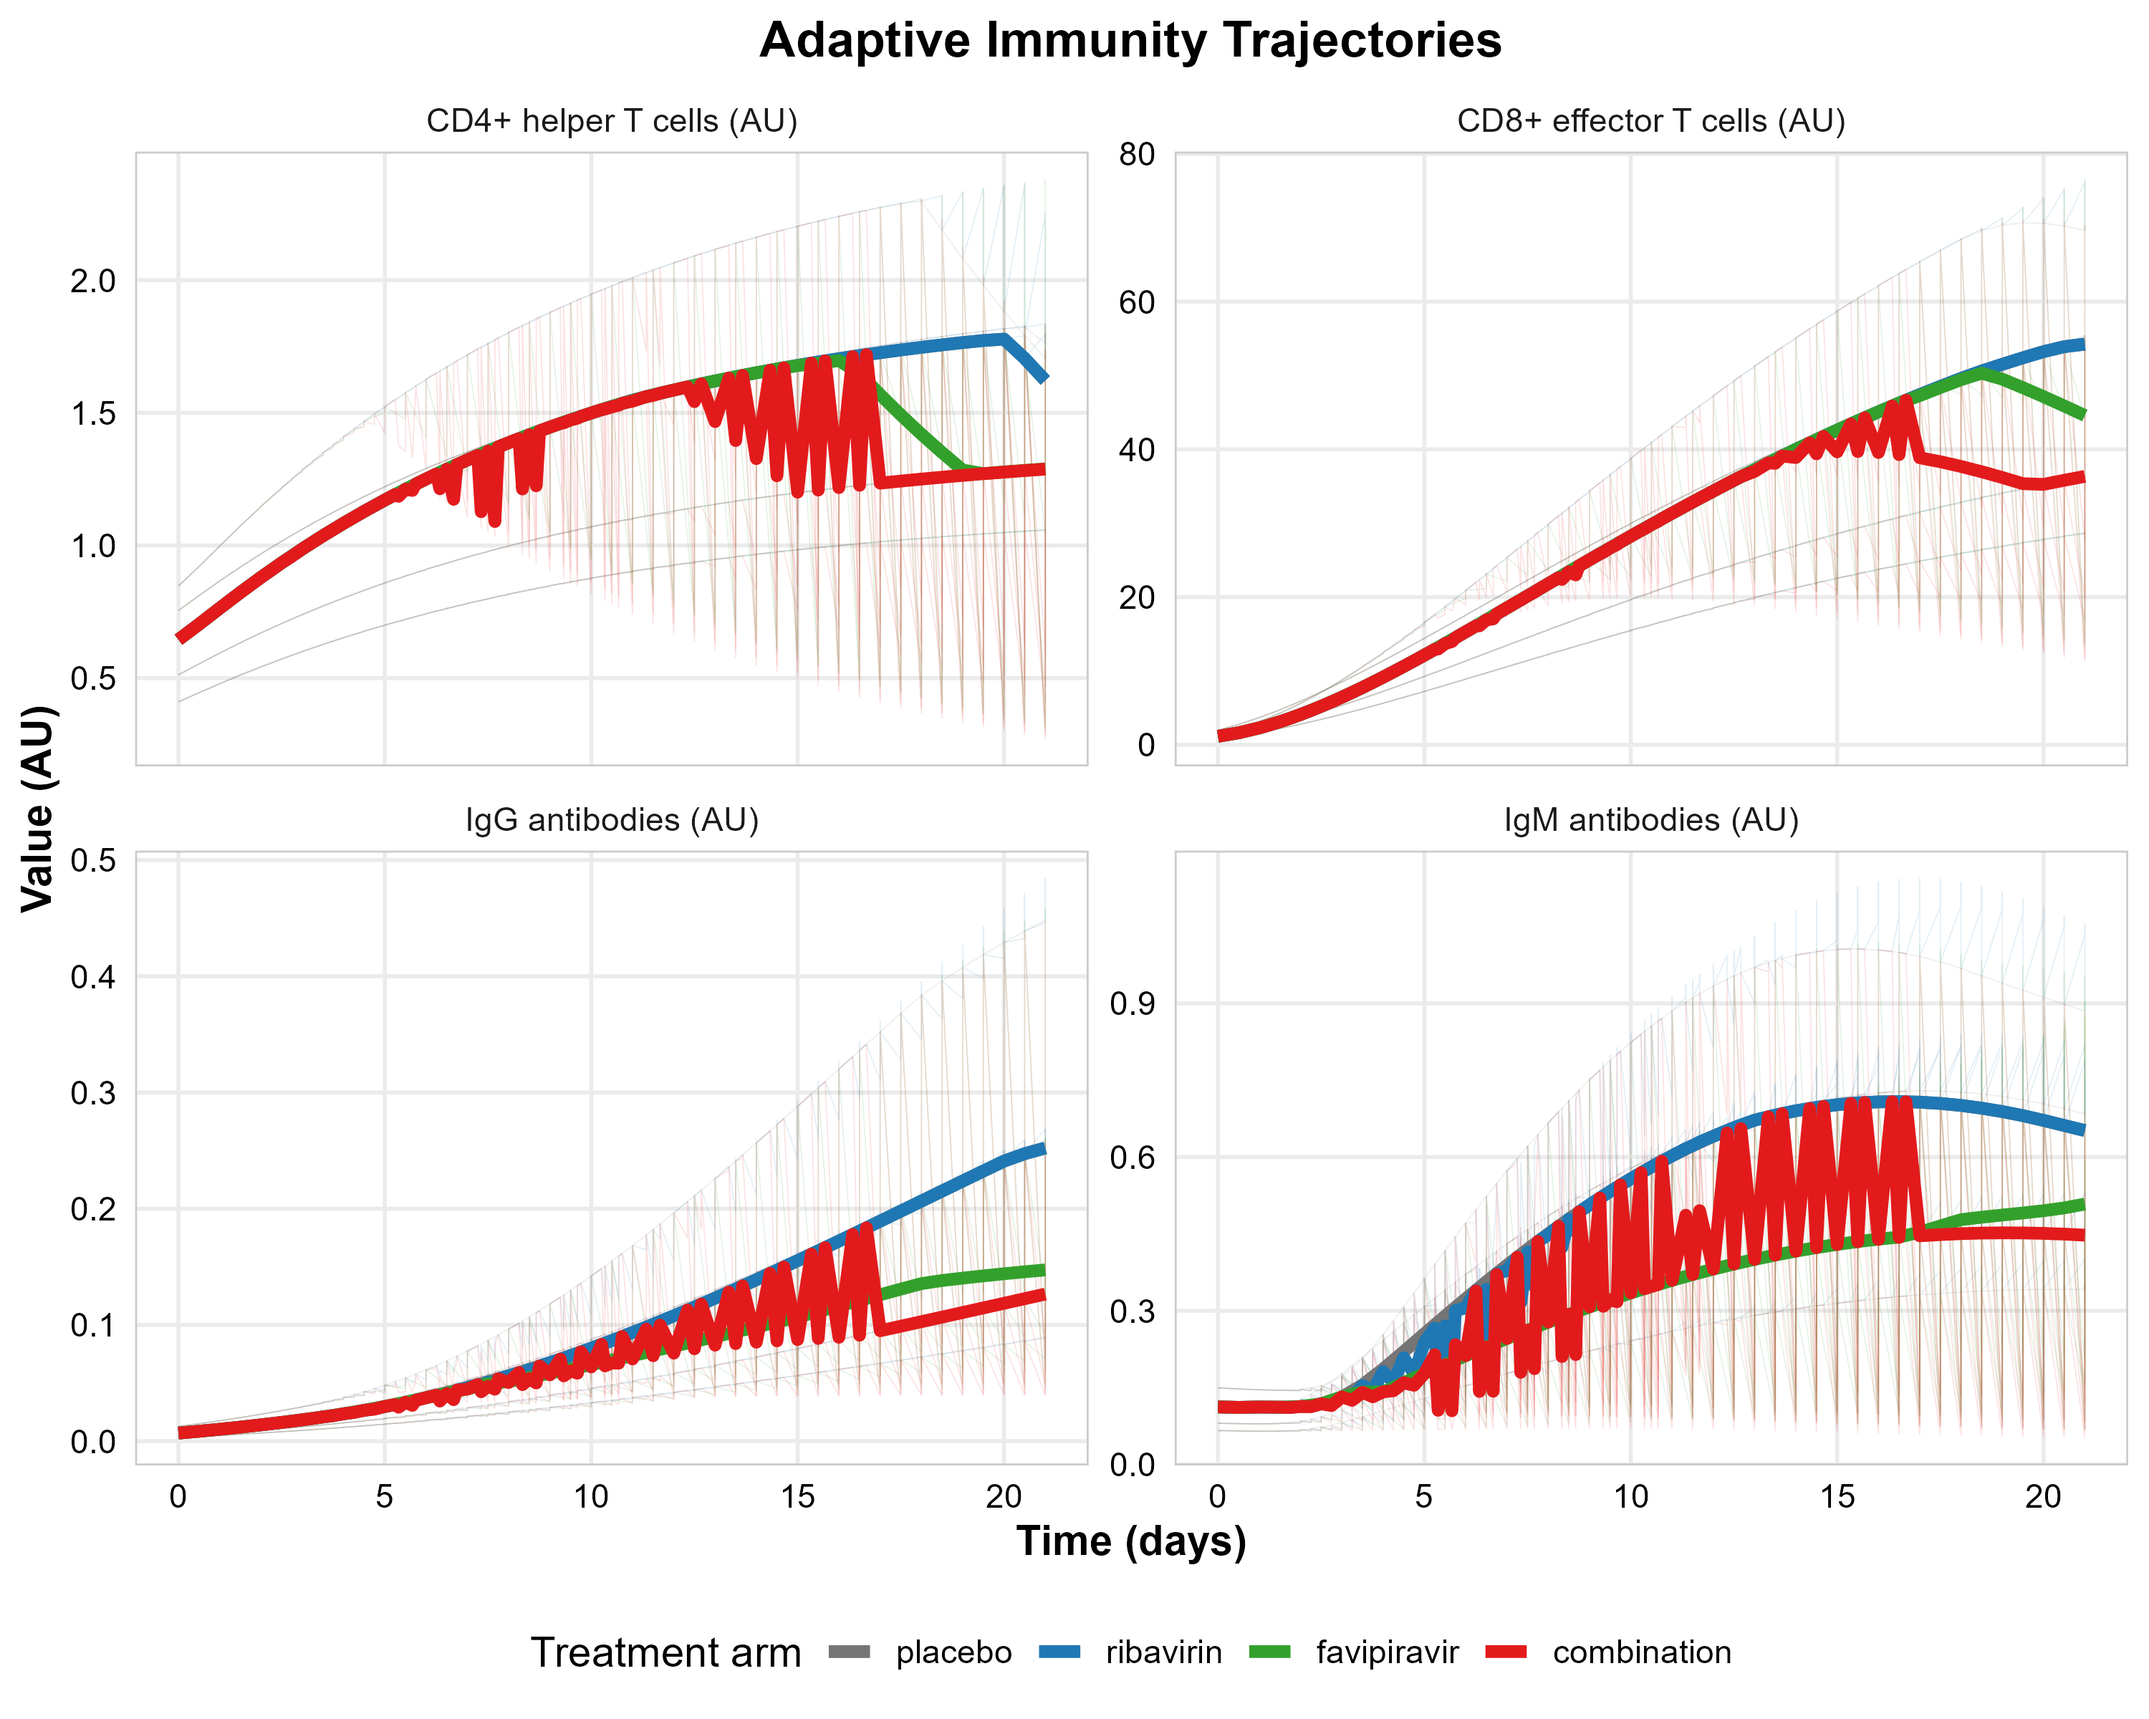
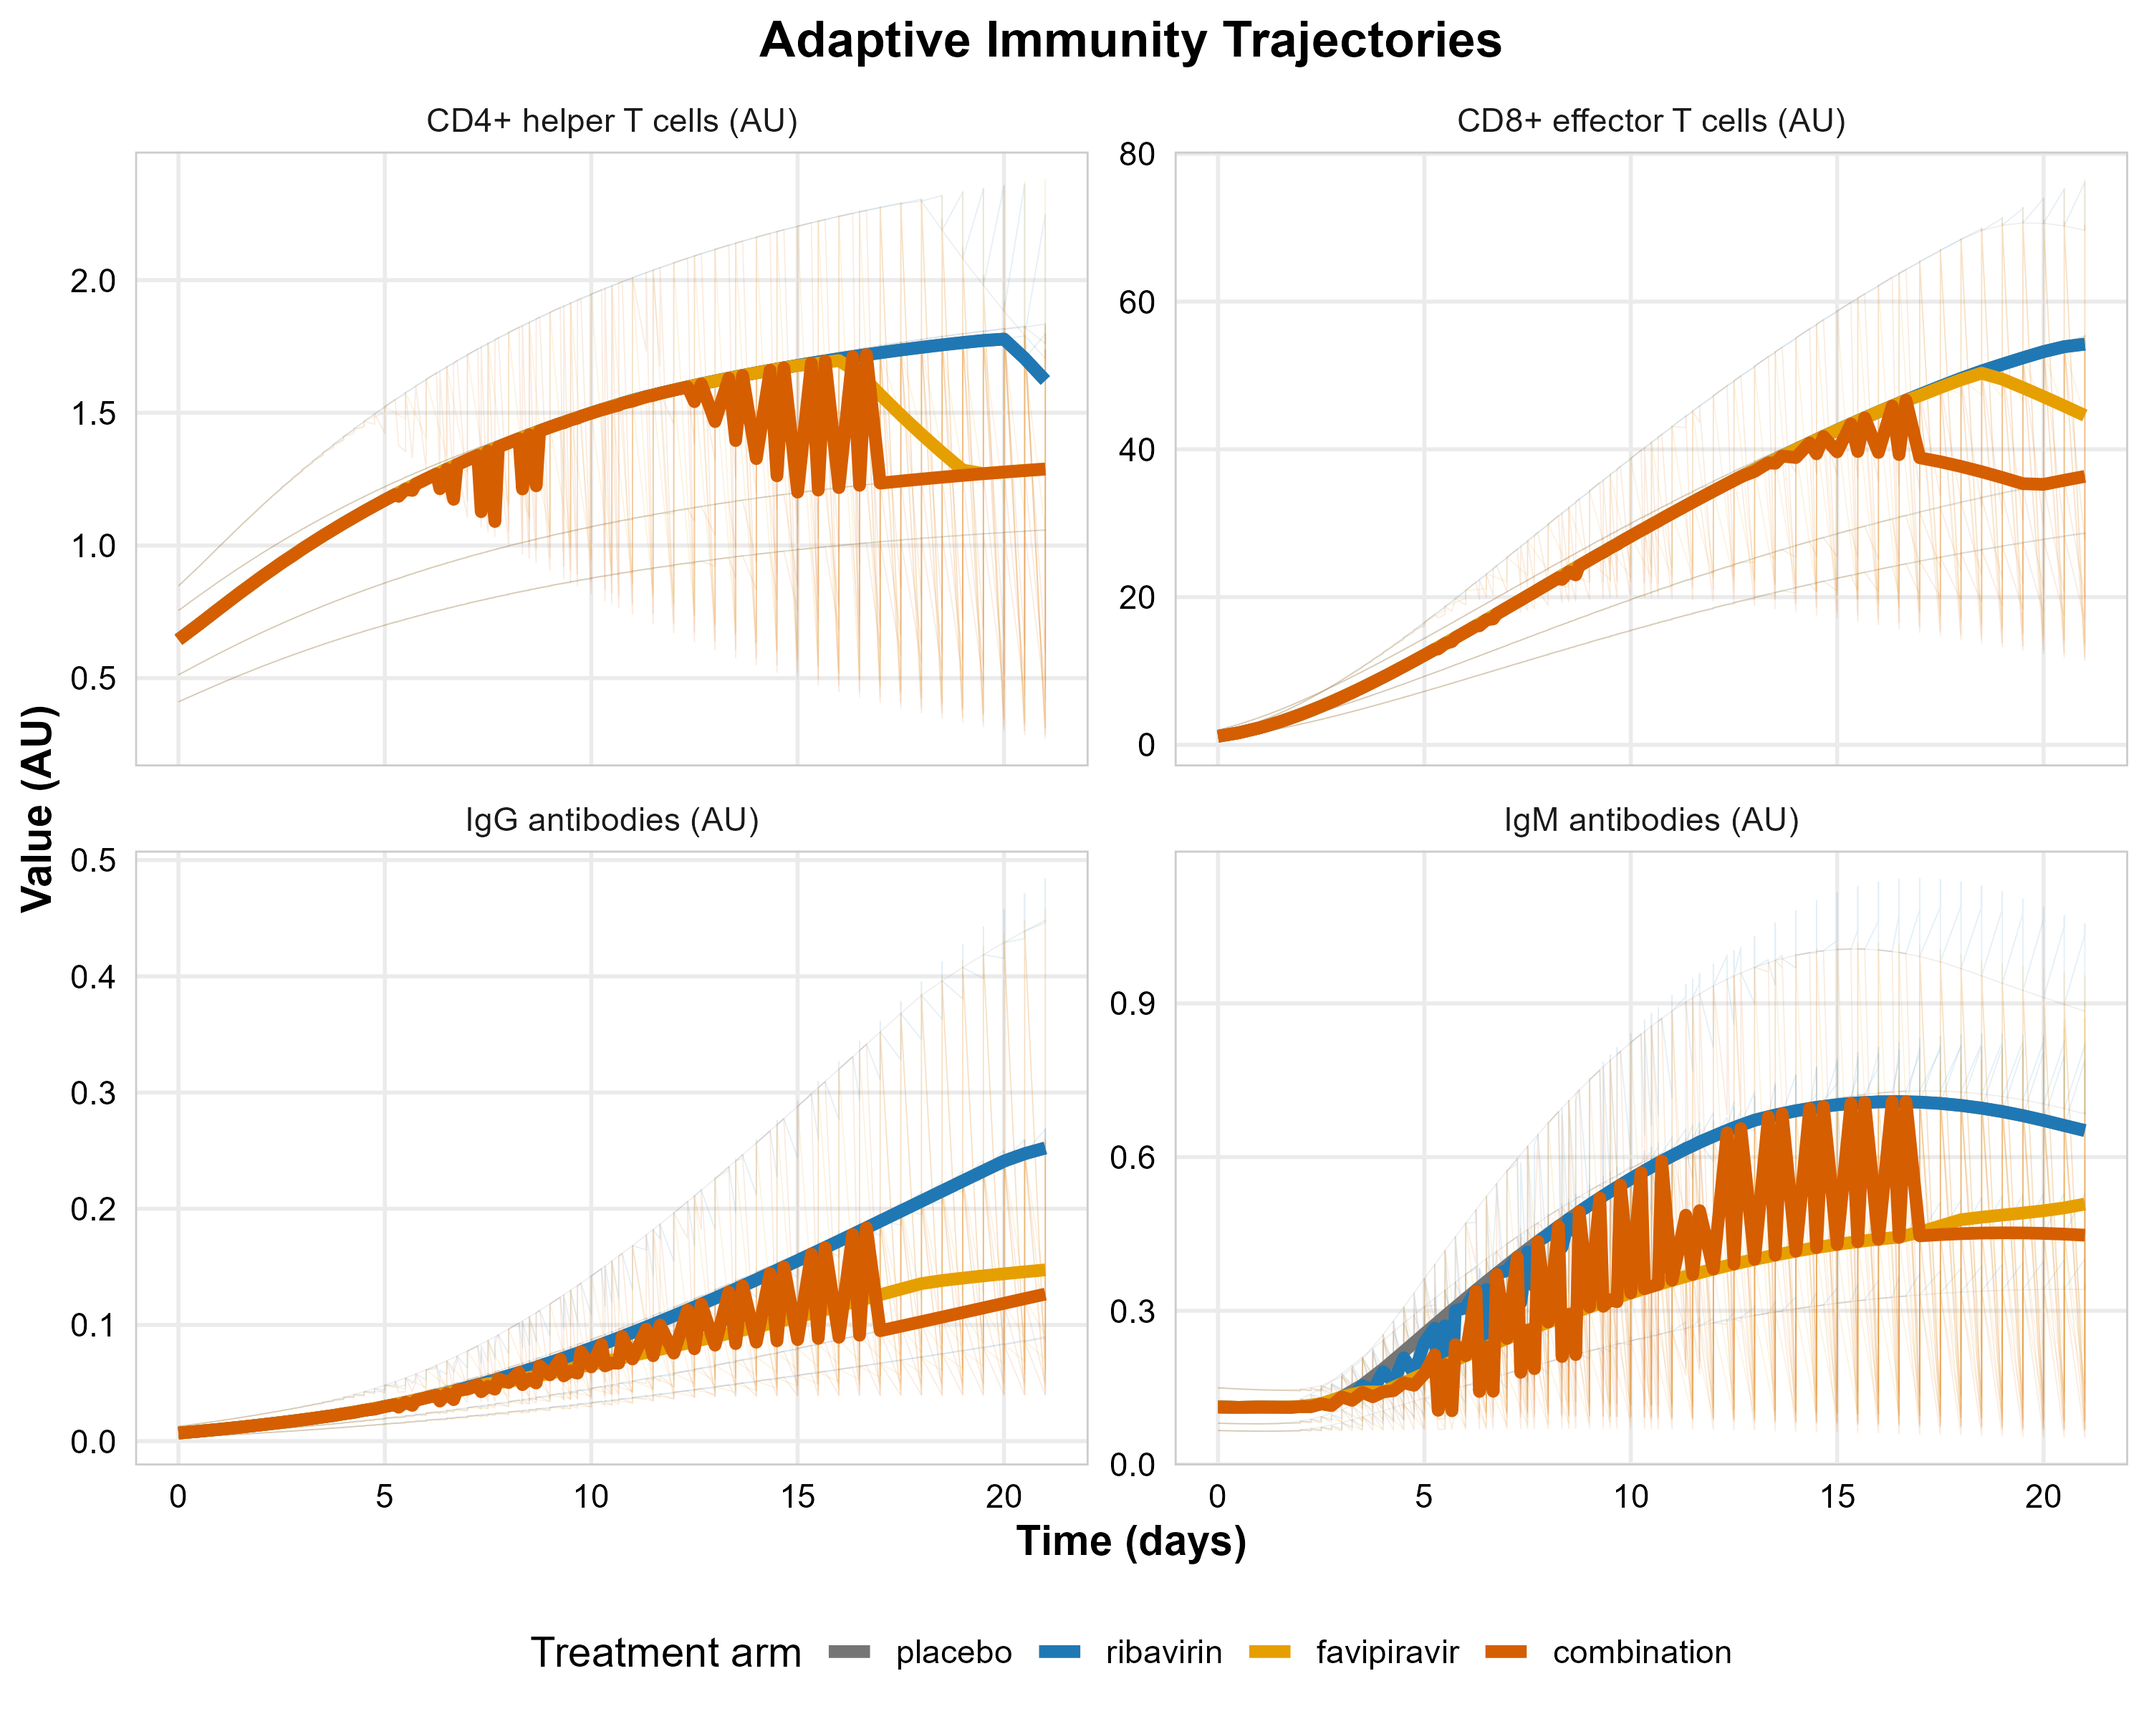
Add Figure S7 generator + colorblind-safe figure palette
New R/make_s7.R regenerates Supplementary Fig. S7 (external corroboration). Recolor 4 plot scripts to a colorblind-safe palette; regenerate affected outputs. No change to model equations or numerical results.

diff --git a/README.md b/README.md
@@ -114,7 +114,8 @@ Hantavirus_QSP/
 │   ├── sensitivity_analysis.R / uncertainty_quantification.R / gsa_prcc.R
 │   ├── ablation_analysis.R / preexposure_analysis.R / optimal_duration.R / vpc_analysis.R
 │   ├── plot_*.R              # Organ/adaptive heatmaps & decluttered trajectories
-│   └── regen_all_aux.R / regen_cached_figs.R   # Re-run auxiliaries / cached figures
+│   ├── regen_all_aux.R / regen_cached_figs.R   # Re-run auxiliaries / cached figures
+│   └── make_s7.R             # Supplementary Fig. S7 (external-corroboration overlay)
 ├── tests/testthat/           # Unit tests (parameter & model invariants)
 ├── outputs/                  # Generated figures and tables
 ├── DESCRIPTION
@@ -159,6 +160,7 @@ and VPC) live in separate scripts; regenerate them with:
 ```bash
 Rscript R/regen_all_aux.R        # re-runs the auxiliary analyses
 Rscript R/regen_cached_figs.R    # regenerates the cached-data figures
+Rscript R/make_s7.R              # regenerates Supplementary Fig. S7 (external corroboration)
 ```
 
 > Note: `R/sensitivity_analysis.R` and `R/uncertainty_quantification.R` must be
@@ -244,9 +246,10 @@ See `outputs/parameter_table.csv` for the complete parameter table with:
 - Confidence rating (high / medium / low)
 
 Key references:
-- Huggins et al. — Ribavirin in HFRS (NEJM, 1991)
-- Pillai et al. — Favipiravir clinical pharmacokinetics
-- Williams et al. — Immune response in orthohantavirus (Viruses, 2023)
+- Huggins et al. — Ribavirin in HFRS (J. Infect. Dis., 1991)
+- Furuta et al. — Favipiravir (T-705), broad-spectrum viral RdRp inhibitor (Proc. Jpn. Acad. Ser. B, 2017)
+- Safronetz et al. — Favipiravir against hantaviruses (Antimicrob. Agents Chemother., 2013)
+- Williams et al. — Zoonotic spillover & rodent-borne RNA viruses (Viruses, 2021)
 - KDIGO — AKI staging criteria
 
 ## Model Limitations
